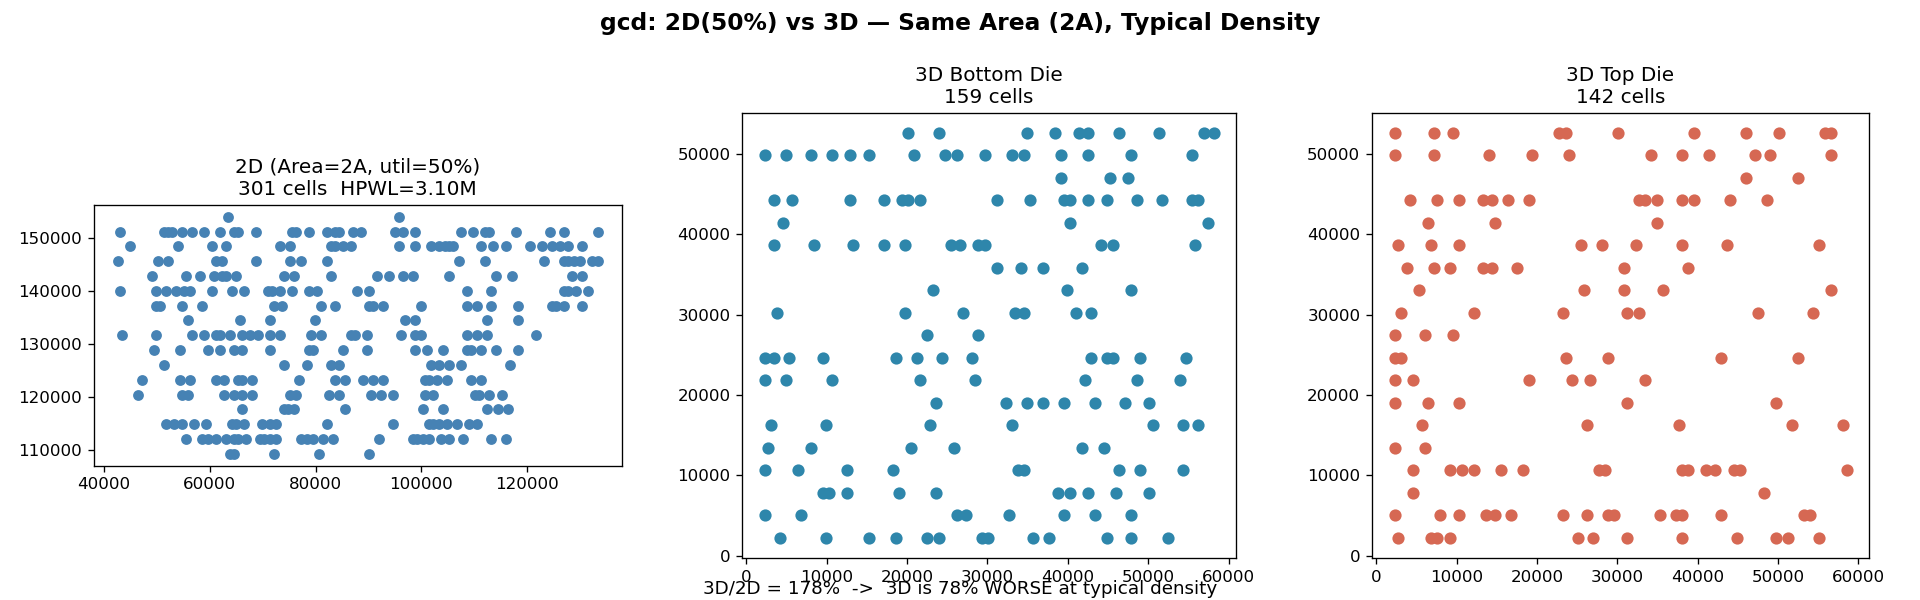
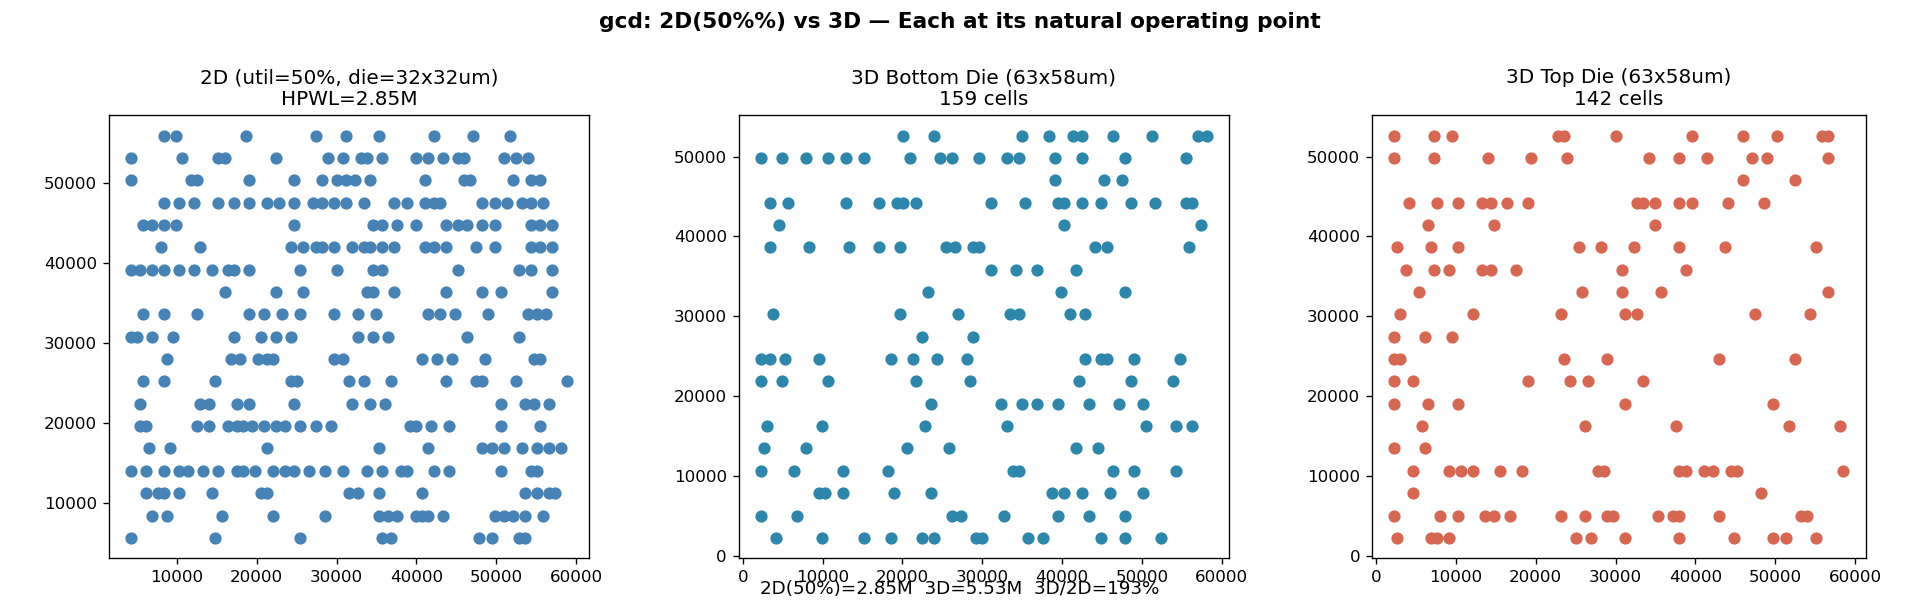
修正方法: 缩die面积达50%利用率, 各自最优密度对比

diff --git a/docs/gcd_analysis.md b/docs/gcd_analysis.md
@@ -71,19 +71,19 @@
 | 3D | **5.53 M** |
 | 3D / 2D | **79%（省 21%）** |
 
-### 典型密度（50%，同面积 2A）
+### 典型密度（50%）
+
+> 方法：缩小 2D floorplan 使自然利用率达到 50%（cell area 429µm² → die 32×32µm），而非在超大面积上用 density flag 强制压缩。
 
 ![2D(50%) vs 3D](../figures/gcd_2d_vs_3d_typ.png)
 
-| | HPWL (DBU) |
-|---|---|
-| 2D (50%) | **3.10 M** |
-| 3D | **5.53 M** |
-| 3D / 2D | **178%（差 78%）** |
+| | Die 面积 | HPWL |
+|---|---|---|
+| 2D (50% util) | 32×32 µm | **2.85 M** |
+| 3D (per die) | 63×58 µm | **5.53 M** |
+| 3D / 2D | — | **193%** |
 
-### 结论
-
-**3D 的 HPWL 收益完全取决于密度。** 自然密度下 3D 赢 21%，但典型密度（50%）下 3D 反而差 78%——跨层连接开销盖过折叠收益。geometry 的 17% 预测在 p=1 条件下成立，在 p=0.698 的真实网表上不成立。
+**各自在最优密度下，3D 的绝对 HPWL 仍高于 2D。** 2D 能把所有单元紧密排在一层，3D 的跨层连接物理距离是额外开销。
 
 | | geometry 预测 | 实测 |
 |---|---|---|
